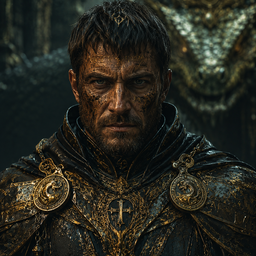
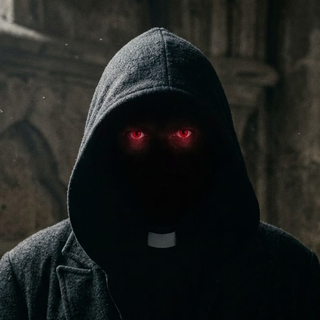
ui changes

diff --git a/basilisk.py b/basilisk.py
@@ -1157,11 +1157,11 @@ link, button.link, *:link { color: #7d121b; }
    the emblem art carries its own carved-stone frame, so the button is
    transparent -- just a soft ember glow on hover, to match the rest. */
 .art-button {
-    background: transparent;
-    background-image: none;
-    border: none;
-    box-shadow: none;
-    padding: 2px;
+    background-color: rgba(12, 8, 9, 0.66);
+    background-image: linear-gradient(180deg, rgba(70, 24, 18, 0.24), rgba(9, 5, 6, 0) 66%);
+    border: 1px solid rgba(140, 26, 32, 0.50);
+    box-shadow: inset 0 1px 0 rgba(210, 90, 48, 0.07), 0 0 6px rgba(125, 18, 27, 0.20);
+    padding: 3px;
     border-radius: 12px;
     transition: all 150ms ease;
 }
@@ -1176,6 +1176,9 @@ link, button.link, *:link { color: #7d121b; }
 /* UNLEASH -- the big red dragon. A quiet ember when idle, a hot red glow when
    armed so it's unmistakable that Basilisk is off the leash. */
 .unleash-button {
+    background: transparent;
+    background-image: none;
+    border: none;
     border-radius: 999px;
     box-shadow: 0 0 6px rgba(205, 54, 28, 0.28);
 }
@@ -1195,11 +1198,11 @@ link, button.link, *:link { color: #7d121b; }
    inner button too: fully transparent, no border/shadow, ember glow on hover to
    match the plain art buttons. */
 menubutton.art-button > button {
-    background: transparent;
-    background-image: none;
-    border: none;
-    box-shadow: none;
-    padding: 2px;
+    background-color: rgba(12, 8, 9, 0.66);
+    background-image: linear-gradient(180deg, rgba(70, 24, 18, 0.24), rgba(9, 5, 6, 0) 66%);
+    border: 1px solid rgba(140, 26, 32, 0.50);
+    box-shadow: inset 0 1px 0 rgba(210, 90, 48, 0.07), 0 0 6px rgba(125, 18, 27, 0.20);
+    padding: 3px;
     min-width: 0;
     min-height: 0;
     border-radius: 12px;
@@ -1530,19 +1533,64 @@ headerbar {
 
 /* ---- Chat bubbles: charred body plus a breathing ember halo.  User and
         assistant flicker on different clocks so they never pulse in sync. ---- */
+.msg-user, .msg-assistant {
+    transition: box-shadow 240ms ease, border-color 240ms ease;
+}
 .msg-user {
-    background-color: rgba(30,12,8,0.55);
-    background-image: linear-gradient(0deg, rgba(150,50,16,0.12), rgba(60,18,8,0.05) 40%, rgba(0,0,0,0.0) 72%);
-    color: #f3e7de;
-    border: 1px solid rgba(190,72,28,0.50);
-    box-shadow: 0 0 13px rgba(205,70,22,0.34), inset 0 -7px 18px rgba(170,52,16,0.18);
+    color: #f5e9df;
+    border-radius: 16px 16px 4px 16px;
+    background-color: #0d0806;
+    background-image:
+        radial-gradient(ellipse at 92% -12%, rgba(226, 96, 34, 0.16), rgba(226, 96, 34, 0) 48%),
+        radial-gradient(ellipse at 4% 126%, rgba(150, 44, 14, 0.20), rgba(150, 44, 14, 0) 56%),
+        linear-gradient(0deg, rgba(150, 50, 16, 0.12), rgba(60, 18, 8, 0.05) 42%, rgba(0, 0, 0, 0.0) 74%);
+    border: 1px solid rgba(196, 78, 30, 0.54);
+    box-shadow:
+        inset 0 1px 0 rgba(240, 150, 90, 0.12),
+        inset 0 0 26px rgba(150, 46, 18, 0.16),
+        inset 0 -7px 18px rgba(170, 52, 16, 0.18),
+        0 0 0 1px rgba(0, 0, 0, 0.40),
+        0 8px 22px rgba(0, 0, 0, 0.50),
+        0 0 14px rgba(210, 72, 24, 0.30);
+    text-shadow: 0 0 9px rgba(220, 84, 34, 0.26), 0 1px 1px rgba(0, 0, 0, 0.55);
 }
 .msg-assistant {
-    background-color: rgba(22,9,7,0.55);
-    background-image: linear-gradient(0deg, rgba(170,55,16,0.11), rgba(70,20,8,0.05) 40%, rgba(0,0,0,0.0) 72%);
-    color: #f1e6de;
-    border: 1px solid rgba(175,56,22,0.48);
-    box-shadow: 0 0 13px rgba(198,64,20,0.32), inset 0 -7px 18px rgba(160,48,15,0.17);
+    color: #f2e7de;
+    border-radius: 4px 16px 16px 16px;
+    background-color: #0b0706;
+    background-image:
+        radial-gradient(ellipse at 6% -12%, rgba(206, 58, 28, 0.16), rgba(206, 58, 28, 0) 46%),
+        radial-gradient(ellipse at 104% 128%, rgba(130, 24, 26, 0.20), rgba(130, 24, 26, 0) 56%),
+        linear-gradient(0deg, rgba(170, 55, 16, 0.11), rgba(70, 20, 8, 0.05) 42%, rgba(0, 0, 0, 0.0) 74%);
+    border: 1px solid rgba(182, 58, 30, 0.52);
+    box-shadow:
+        inset 0 1px 0 rgba(232, 132, 80, 0.11),
+        inset 0 0 28px rgba(150, 40, 22, 0.16),
+        inset 0 -7px 18px rgba(160, 48, 15, 0.17),
+        0 0 0 1px rgba(0, 0, 0, 0.40),
+        0 8px 22px rgba(0, 0, 0, 0.50),
+        0 0 14px rgba(196, 60, 26, 0.28);
+    text-shadow: 0 0 9px rgba(202, 62, 34, 0.25), 0 1px 1px rgba(0, 0, 0, 0.55);
+}
+.msg-user:hover {
+    border-color: rgba(226, 96, 40, 0.72);
+    box-shadow:
+        inset 0 1px 0 rgba(240, 150, 90, 0.14),
+        inset 0 0 30px rgba(160, 50, 20, 0.20),
+        inset 0 -7px 18px rgba(180, 56, 18, 0.20),
+        0 0 0 1px rgba(0, 0, 0, 0.40),
+        0 10px 26px rgba(0, 0, 0, 0.52),
+        0 0 24px rgba(226, 84, 30, 0.48);
+}
+.msg-assistant:hover {
+    border-color: rgba(210, 66, 34, 0.72);
+    box-shadow:
+        inset 0 1px 0 rgba(232, 132, 80, 0.13),
+        inset 0 0 32px rgba(160, 44, 24, 0.20),
+        inset 0 -7px 18px rgba(170, 52, 18, 0.19),
+        0 0 0 1px rgba(0, 0, 0, 0.40),
+        0 10px 26px rgba(0, 0, 0, 0.52),
+        0 0 24px rgba(212, 66, 30, 0.46);
 }
 
 /* ---- The status line, reborn as a burning bar.  A flame gradient taller